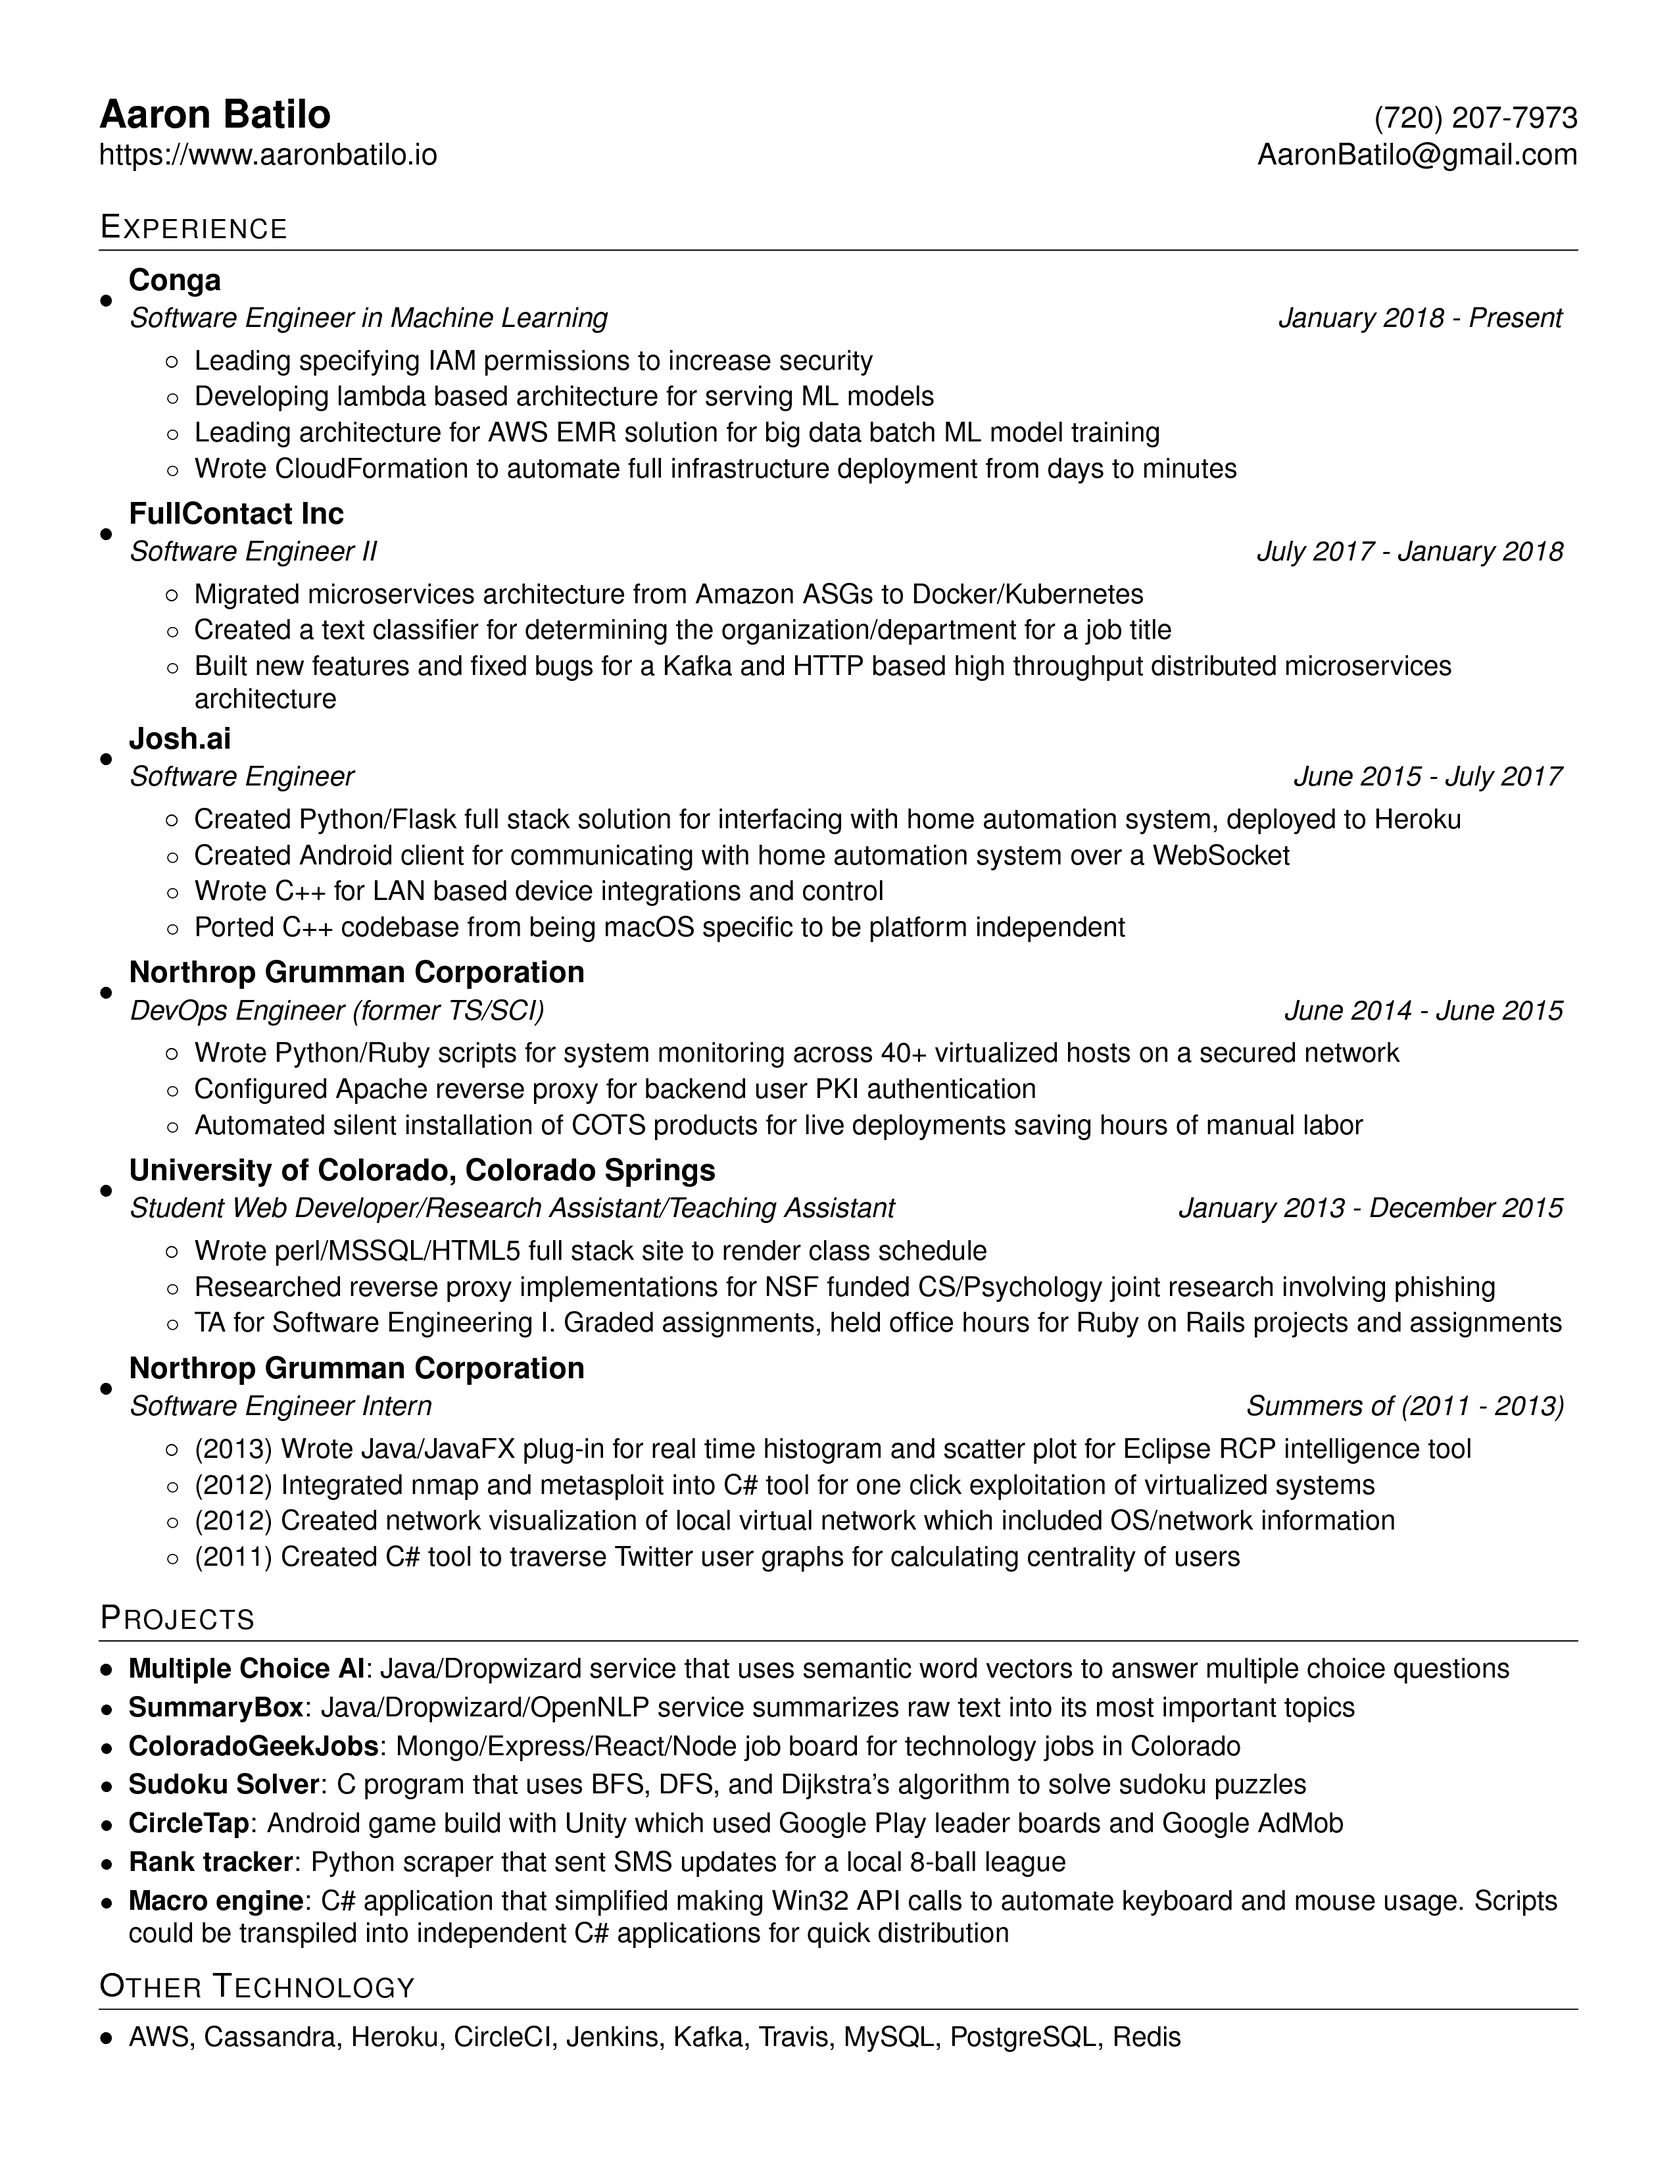
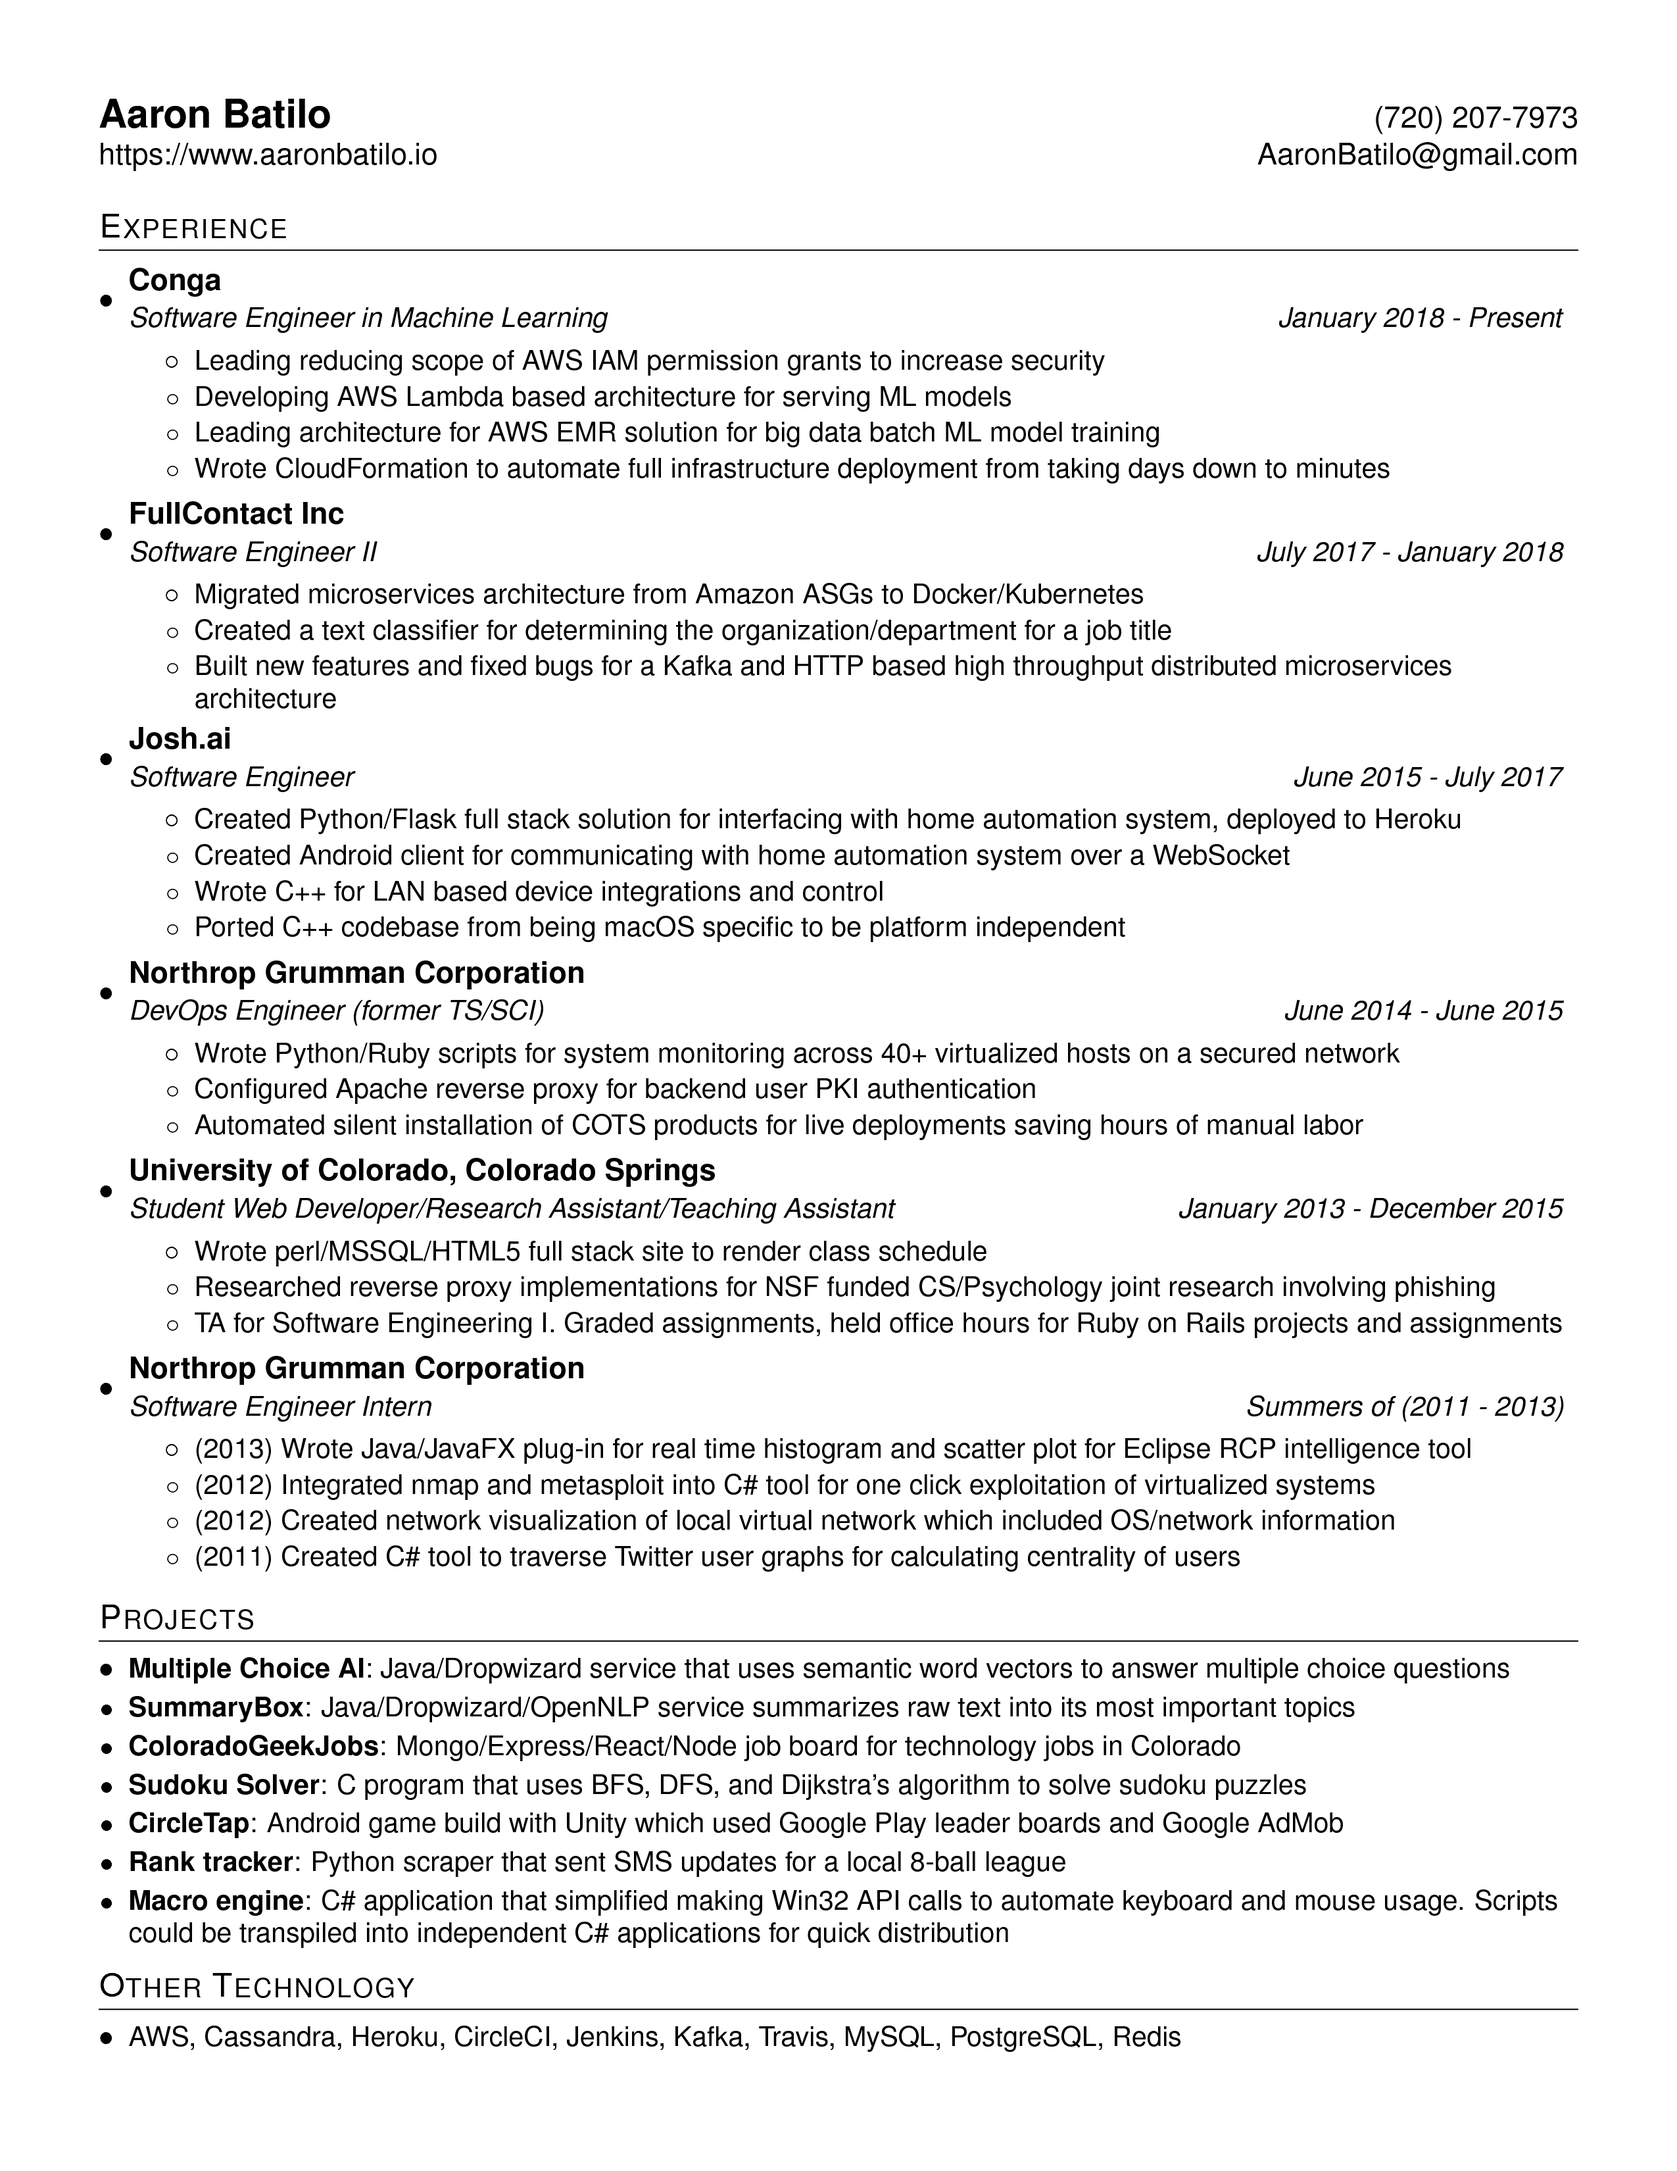
Fix wording for Conga bullets

Changed region(s): [[0.1859, 0.1561, 0.6506, 0.1873]]

diff --git a/resume.tex b/resume.tex
@@ -95,10 +95,10 @@
       {Conga}
       {Software Engineer in Machine Learning}{January 2018 - Present}
       \resumeItemListStart
-        \resumeItemNoBold {Leading specifying IAM resource control to increase security}
+        \resumeItemNoBold {Leading reducing scope of AWS IAM permission grants to increase security}
         \resumeItemNoBold {Developing AWS Lambda based architecture for serving ML models}
         \resumeItemNoBold {Leading architecture for AWS EMR solution for big data batch ML model training}
-        \resumeItemNoBold {Wrote CloudFormation to automate full infrastructure deployment from days to minutes}
+        \resumeItemNoBold {Wrote CloudFormation to automate full infrastructure deployment from taking days down to minutes}
       \resumeItemListEnd
 
     \resumeSubheading
